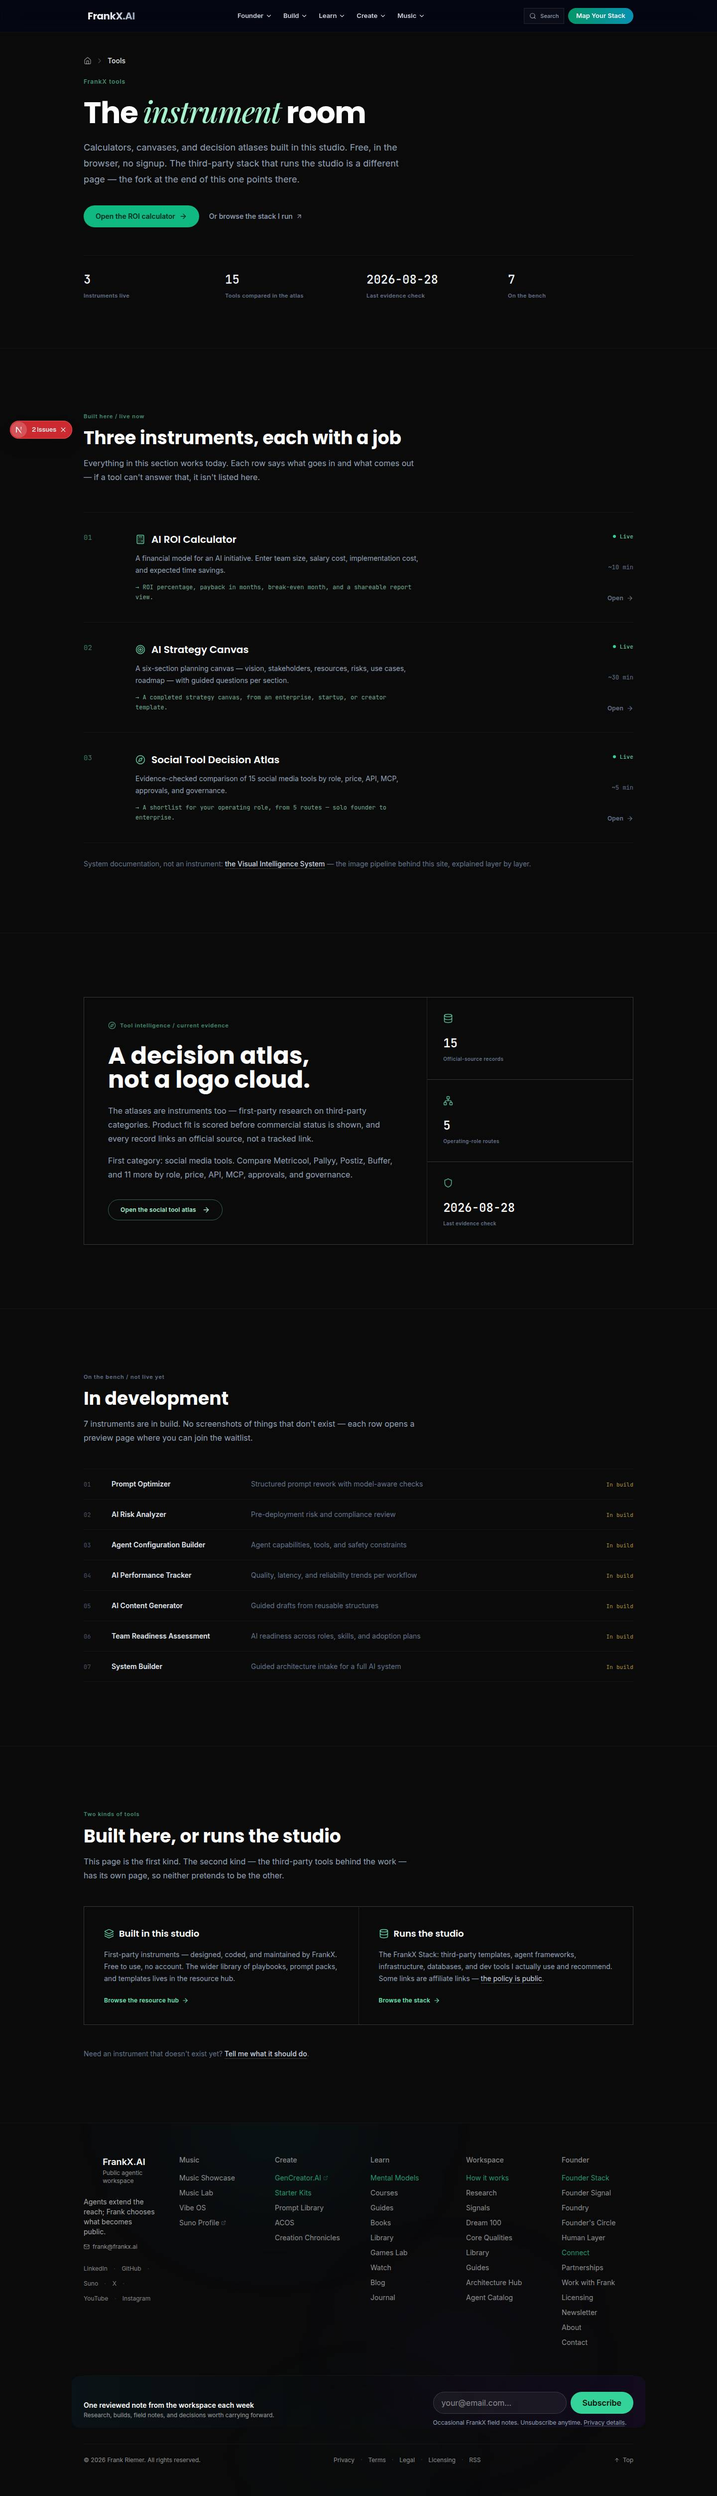
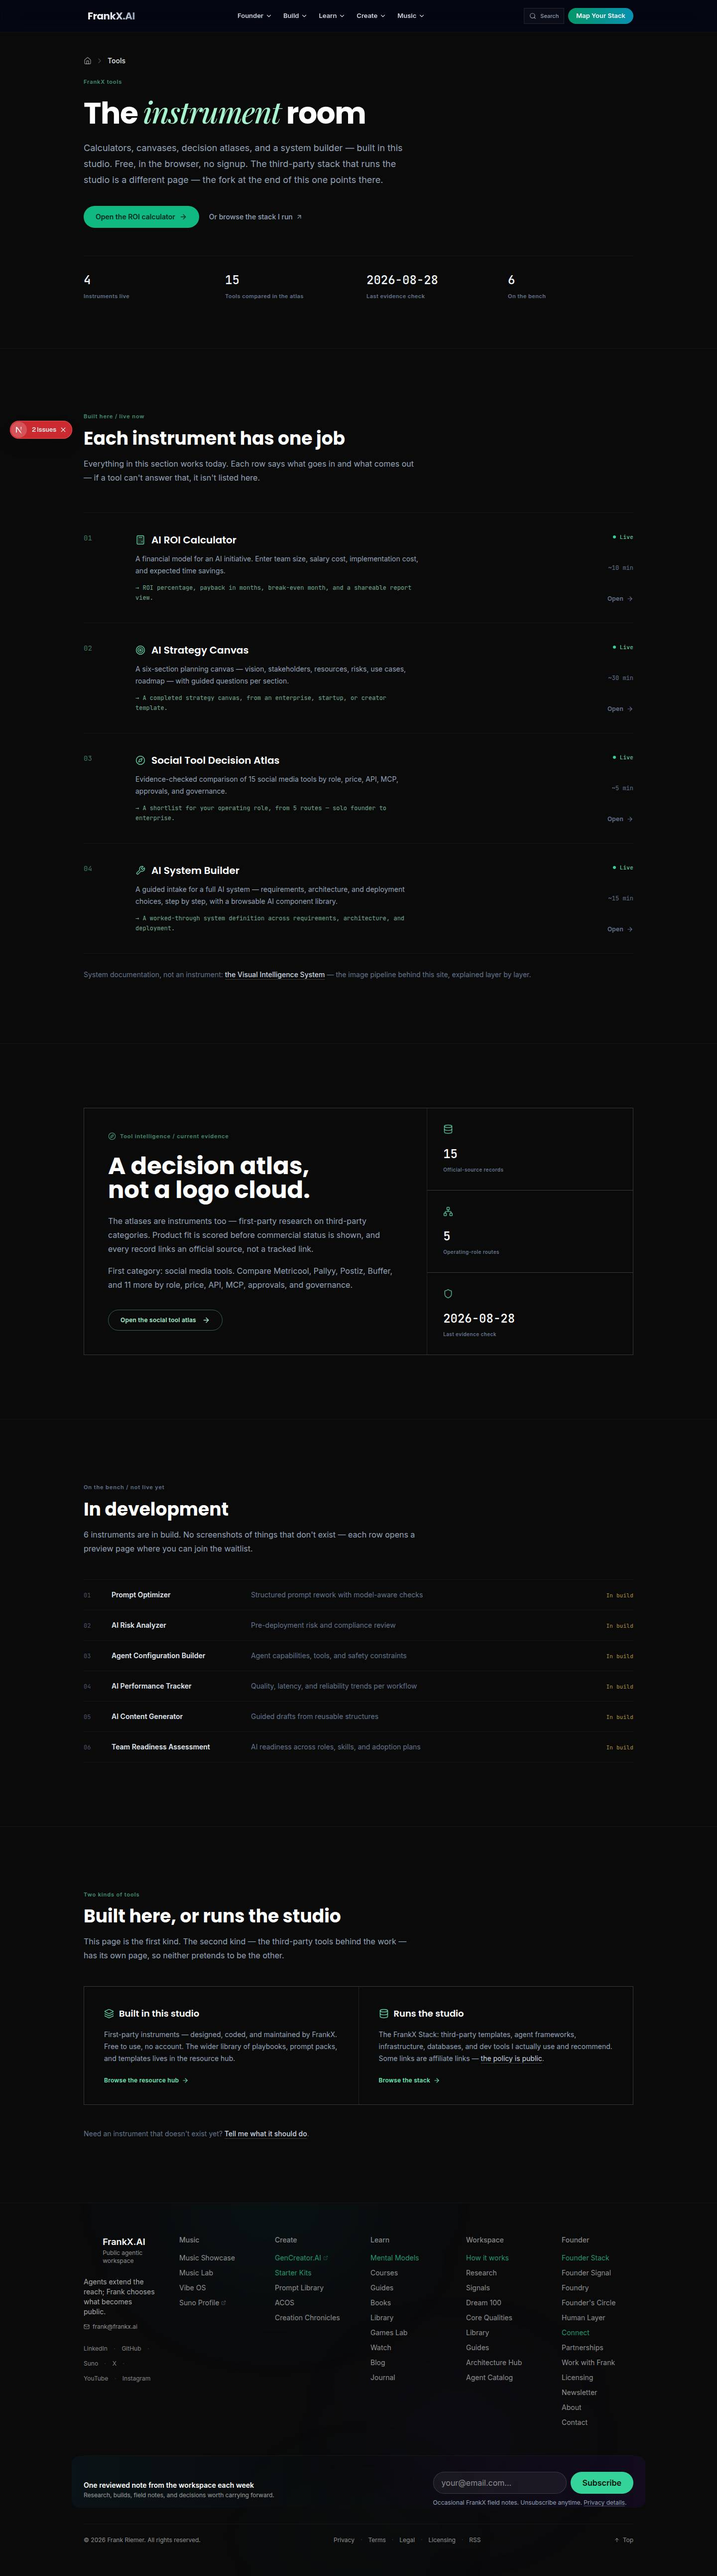
feat(tools): promote AI System Builder to live instruments per #616
Main ruled /tools/builder live ("is a 200 AI System Builder", #616) while
this branch listed it in the in-build ledger. Align with main:

- AI System Builder becomes instrument 04 (guided intake for requirements,
  architecture, deployment, plus the component library); ledger drops to 6
- Counts stay coherent: hero stat, CollectionPage ItemList, and metadata
  all derive from the same instruments array; the section heading is now
  countless ("Each instrument has one job")
- Evidence captures re-taken on the merged head (4 instrument rows):
  0 uppercase elements in main, no horizontal overflow at 375/768/1440,
  19/19 keyboard stops with visible focus

The merge from main also adopted its /stack resolution (#611/#614/#615
dropped the stale April stamps and fixed the OG image), so this branch now
only re-adds the /tools cross-link on that page.

Claude-Session: https://claude.ai/code/session_01Wzx5FKqis4iFGbFgwuZkUZ

diff --git a/app/tools/page.tsx b/app/tools/page.tsx
@@ -9,6 +9,7 @@ import {
   Network,
   Shield,
   Target,
+  Wrench,
 } from 'lucide-react'
 
 import Breadcrumbs from '@/components/seo/Breadcrumbs'
@@ -23,7 +24,7 @@ import { createMetadata, siteConfig } from '@/lib/seo'
 export const metadata = createMetadata({
   title: 'Tools — Instruments Built in the FrankX Studio',
   description:
-    'Free, in-browser instruments built by FrankX: the AI ROI calculator, the strategy canvas, and the social tool decision atlas. The third-party stack lives at /stack.',
+    'Free, in-browser instruments built by FrankX: the AI ROI calculator, the strategy canvas, the social tool decision atlas, and the AI system builder. The third-party stack lives at /stack.',
   path: '/tools',
 })
 
@@ -55,6 +56,15 @@ const instruments = [
     output: `A shortlist for your operating role, from ${SOCIAL_TOOL_ROLES.length} routes — solo founder to enterprise.`,
     time: '~5 min',
     href: '/tools/social-media',
+  },
+  {
+    index: '04',
+    name: 'AI System Builder',
+    icon: Wrench,
+    what: 'A guided intake for a full AI system — requirements, architecture, and deployment choices, step by step, with a browsable AI component library.',
+    output: 'A worked-through system definition across requirements, architecture, and deployment.',
+    time: '~15 min',
+    href: '/tools/builder',
   },
 ]
 
@@ -90,11 +100,6 @@ const inDevelopment = [
     will: 'AI readiness across roles, skills, and adoption plans',
     href: '/tools/team-readiness',
   },
-  {
-    name: 'System Builder',
-    will: 'Guided architecture intake for a full AI system',
-    href: '/tools/builder',
-  },
 ]
 
 export default function ToolsPage() {
@@ -107,7 +112,7 @@ export default function ToolsPage() {
         data={{
           name: 'FrankX Tools',
           description:
-            'Free, in-browser instruments built by FrankX: calculators, planning canvases, and tool decision atlases.',
+            'Free, in-browser instruments built by FrankX: calculators, planning canvases, tool decision atlases, and a system builder.',
           url: canonicalUrl,
           dateModified: SOCIAL_TOOL_LAST_VERIFIED,
           mainEntity: {
@@ -134,9 +139,9 @@ export default function ToolsPage() {
             The <span className="font-serif font-medium italic text-emerald-200">instrument</span> room
           </h1>
           <p className="mt-6 max-w-2xl text-lg leading-8 text-slate-400">
-            Calculators, canvases, and decision atlases built in this studio. Free, in the
-            browser, no signup. The third-party stack that runs the studio is a different
-            page — the fork at the end of this one points there.
+            Calculators, canvases, decision atlases, and a system builder — built in this
+            studio. Free, in the browser, no signup. The third-party stack that runs the
+            studio is a different page — the fork at the end of this one points there.
           </p>
 
           <div className="mt-9 flex flex-wrap items-center gap-5">
@@ -181,7 +186,7 @@ export default function ToolsPage() {
             Built here / live now
           </p>
           <h2 id="instruments-title" className="mt-4 max-w-2xl text-balance font-display text-3xl font-bold text-white sm:text-4xl">
-            Three instruments, each with a job
+            Each instrument has one job
           </h2>
           <p className="mt-4 max-w-2xl text-base leading-7 text-slate-400">
             Everything in this section works today. Each row says what goes in and what

diff --git a/docs/evidence/tools-ia-2026-08/README.md b/docs/evidence/tools-ia-2026-08/README.md
@@ -3,7 +3,9 @@
 Receipt for the `/tools` information-architecture rebuild and the review fixes
 requested on PR #596. Captures and audits below were produced against the PR
 head on a local dev server (`pnpm dev`, dark scheme, deviceScaleFactor 1) on
-2026-08-30 (`2026-08-30T15:19Z`).
+2026-08-30 (`2026-08-30T15:49Z`), after merging `main` (through #617) and
+promoting the AI System Builder to the live instruments per #616 — the
+captures show four live instrument rows.
 
 ## Captures
 
